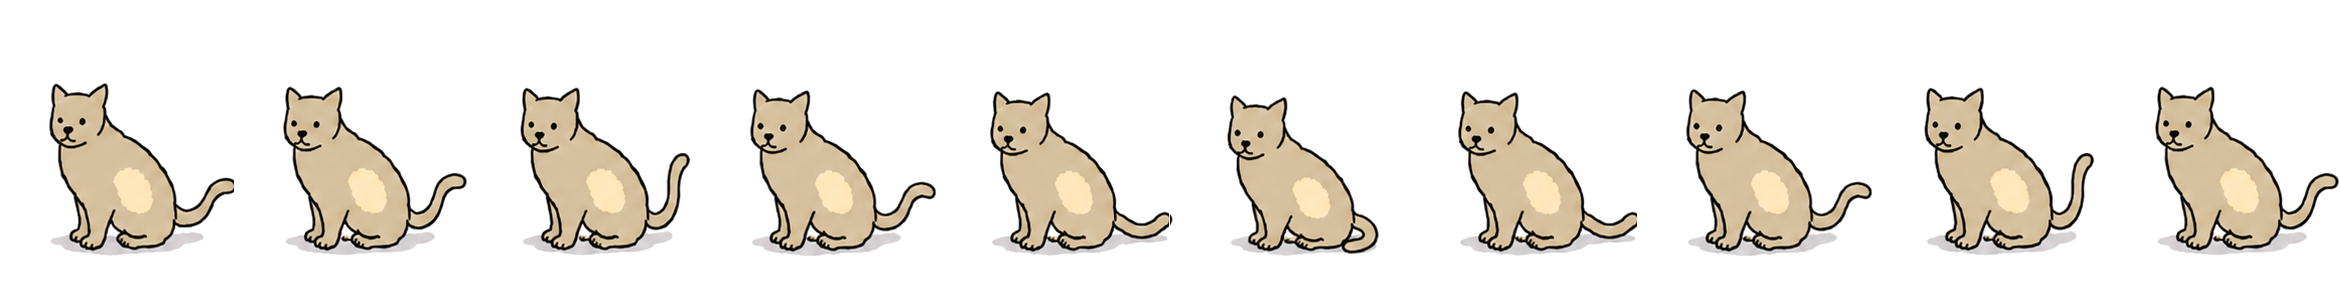
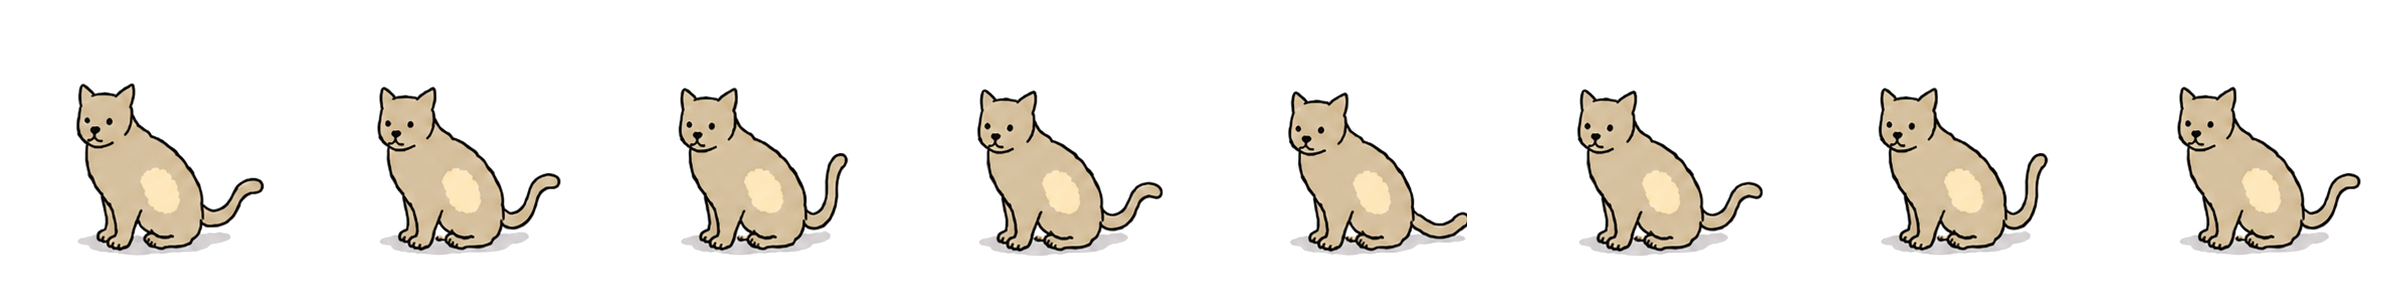
update cat actor dimensions and add host actor; enhance sprite extraction and styling

diff --git a/src/style.css b/src/style.css
@@ -59,6 +59,14 @@ body {
   bottom: 8%;
 }
 
+.actor-host {
+  z-index: 1;
+  width: 16%;
+  aspect-ratio: 300 / 370;
+  left: 27%;
+  bottom: 32%;
+}
+
 .actor-dancer {
   z-index: 2;
   width: 28%;
@@ -77,9 +85,9 @@ body {
 
 .actor-cat {
   z-index: 0;
-  width: 9%;
-  aspect-ratio: 234 / 281;
-  left: 60%;
+  width: 11.5%;
+  aspect-ratio: 300 / 281;
+  left: 58.8%;
   top: 30%;
 }
 

diff --git a/index.html b/index.html
@@ -21,6 +21,9 @@
       <div class="actor actor-floral" data-actor="floral" aria-label="A woman in a black floral dress gesturing" role="img">
         <img src="assets/characters/floral-strip.png" alt="" />
       </div>
+      <div class="actor actor-host" data-actor="host" aria-label="A host in a red vest waving a handheld fan" role="img">
+        <img src="assets/characters/host-strip.png" alt="" />
+      </div>
       <div class="actor actor-seated" data-actor="seated" aria-label="A seated woman in a pink shirt gesturing" role="img">
         <img src="assets/characters/seated-strip.png" alt="" />
       </div>

diff --git a/src/main.js b/src/main.js
@@ -3,10 +3,11 @@ import { gsap } from "gsap";
 const actors = [
   { name: "suit", frameCount: 14, framesPerSecond: 3 },
   { name: "floral", frameCount: 46, framesPerSecond: 5 },
+  { name: "host", frameCount: 28, framesPerSecond: 8 },
   { name: "seated", frameCount: 20, framesPerSecond: 3 },
   { name: "cyclist", frameCount: 20, framesPerSecond: 6 },
   { name: "dancer", frameCount: 20, framesPerSecond: 8 },
-  { name: "cat", frameCount: 10, framesPerSecond: 6 },
+  { name: "cat", frameCount: 8, framesPerSecond: 5 },
 ];
 
 const spriteLoops = [];

diff --git a/scripts/extract_host.py b/scripts/extract_host.py
@@ -1,0 +1,224 @@
+#!/usr/bin/env python3
+from pathlib import Path
+from collections import deque
+
+from PIL import Image
+
+
+SOURCE = Path("/Users/Manasi/Downloads/ChatGPT Image Jul 16, 2026, 08_10_11 PM.png")
+OUT_DIR = Path("public/assets/characters")
+NAME = "host"
+COLS = 5
+ROWS = 4
+FRAME_WIDTH = 300
+FRAME_HEIGHT = 370
+THRESHOLD = 244
+USE_FRAMES = list(range(15))
+SEQUENCE = USE_FRAMES + USE_FRAMES[-2:0:-1]
+
+
+def transparentize_paper(image):
+    image = image.convert("RGBA")
+    pixels = image.load()
+    visited = set()
+    queue = deque()
+
+    def is_background_candidate(x, y):
+        r, g, b, source_alpha = pixels[x, y]
+        return source_alpha == 0 or min(r, g, b) > THRESHOLD
+
+    for x in range(image.width):
+        queue.append((x, 0))
+        queue.append((x, image.height - 1))
+    for y in range(image.height):
+        queue.append((0, y))
+        queue.append((image.width - 1, y))
+
+    while queue:
+        x, y = queue.popleft()
+        if (x, y) in visited or not (0 <= x < image.width and 0 <= y < image.height):
+            continue
+        visited.add((x, y))
+        if not is_background_candidate(x, y):
+            continue
+        pixels[x, y] = (255, 255, 255, 0)
+        queue.append((x + 1, y))
+        queue.append((x - 1, y))
+        queue.append((x, y + 1))
+        queue.append((x, y - 1))
+
+    for y in range(image.height):
+        for x in range(image.width):
+            r, g, b, source_alpha = pixels[x, y]
+            if source_alpha == 0:
+                continue
+            pixels[x, y] = (r, g, b, source_alpha)
+    return image
+
+
+def alpha_bbox(image):
+    box = image.getchannel("A").getbbox()
+    if not box:
+        raise ValueError("Empty frame")
+    return box
+
+
+def remove_top_spill_components(image, frame_index):
+    image = image.convert("RGBA")
+    alpha = image.getchannel("A")
+    alpha_pixels = alpha.load()
+    pixels = image.load()
+    visited = set()
+
+    for y in range(image.height):
+        for x in range(image.width):
+            if (x, y) in visited or not alpha_pixels[x, y]:
+                continue
+
+            queue = deque([(x, y)])
+            visited.add((x, y))
+            component = []
+
+            while queue:
+                px, py = queue.popleft()
+                component.append((px, py))
+                for nx, ny in ((px + 1, py), (px - 1, py), (px, py + 1), (px, py - 1)):
+                    if (
+                        0 <= nx < image.width
+                        and 0 <= ny < image.height
+                        and (nx, ny) not in visited
+                        and alpha_pixels[nx, ny]
+                    ):
+                        visited.add((nx, ny))
+                        queue.append((nx, ny))
+
+            xs = [point[0] for point in component]
+            ys = [point[1] for point in component]
+            top = min(ys)
+            bottom = max(ys) + 1
+            area = len(component)
+            is_row_spill = frame_index >= COLS and top < 96 and bottom < 122 and area > 2
+
+            if is_row_spill:
+                for px, py in component:
+                    pixels[px, py] = (255, 255, 255, 0)
+
+    return image
+
+
+def remove_paper_specks(image):
+    image = image.convert("RGBA")
+    alpha = image.getchannel("A")
+    alpha_pixels = alpha.load()
+    pixels = image.load()
+    visited = set()
+
+    for y in range(image.height):
+        for x in range(image.width):
+            if (x, y) in visited or not alpha_pixels[x, y]:
+                continue
+
+            queue = deque([(x, y)])
+            visited.add((x, y))
+            component = []
+
+            while queue:
+                px, py = queue.popleft()
+                component.append((px, py))
+                for nx, ny in ((px + 1, py), (px - 1, py), (px, py + 1), (px, py - 1)):
+                    if (
+                        0 <= nx < image.width
+                        and 0 <= ny < image.height
+                        and (nx, ny) not in visited
+                        and alpha_pixels[nx, ny]
+                    ):
+                        visited.add((nx, ny))
+                        queue.append((nx, ny))
+
+            if len(component) > 12:
+                continue
+
+            is_pale_paper = all(min(pixels[px, py][:3]) > 240 for px, py in component)
+            if is_pale_paper:
+                for px, py in component:
+                    pixels[px, py] = (255, 255, 255, 0)
+
+    return image
+
+
+def lower_body_anchor_x(image):
+    pixels = image.load()
+    xs = []
+    for y in range(round(image.height * 0.58), image.height):
+        for x in range(image.width):
+            r, g, b, a = pixels[x, y]
+            is_outline = a > 80 and r < 95 and g < 80 and b < 80
+            is_red_pants = a > 100 and r > 95 and g < 80 and b < 70
+            if is_outline or is_red_pants:
+                xs.append(x)
+    if not xs:
+        return None
+    xs.sort()
+    return xs[len(xs) // 2]
+
+
+def composite_centered(canvas, crop):
+    x = (canvas.width - crop.width) // 2
+    y = (canvas.height - crop.height) // 2
+    source_left = max(0, -x)
+    source_top = max(0, -y)
+    source_right = min(crop.width, canvas.width - x)
+    source_bottom = min(crop.height, canvas.height - y)
+    if source_right <= source_left or source_bottom <= source_top:
+        return
+    canvas.alpha_composite(crop.crop((source_left, source_top, source_right, source_bottom)), (max(0, x), max(0, y)))
+
+
+def main():
+    if not SOURCE.exists():
+        raise SystemExit(f"Missing host spritesheet: {SOURCE}")
+
+    OUT_DIR.mkdir(parents=True, exist_ok=True)
+    sheet = Image.open(SOURCE).convert("RGBA")
+
+    frames = []
+    for row in range(ROWS):
+        for col in range(COLS):
+            left = round(col * sheet.width / COLS)
+            right = round((col + 1) * sheet.width / COLS)
+            top = round(row * sheet.height / ROWS)
+            bottom = round((row + 1) * sheet.height / ROWS)
+            crop = sheet.crop((left, top, right, bottom))
+            canvas = Image.new("RGBA", (FRAME_WIDTH, FRAME_HEIGHT), (255, 255, 255, 0))
+            composite_centered(canvas, crop)
+            frame = transparentize_paper(canvas)
+            frame = remove_top_spill_components(frame, row * COLS + col)
+            frame = remove_paper_specks(frame)
+            frames.append(frame)
+
+    usable = [frames[index] for index in USE_FRAMES]
+    boxes = [alpha_bbox(frame) for frame in usable]
+    anchors = [lower_body_anchor_x(frame) for frame in usable]
+    if any(anchor is None for anchor in anchors):
+        raise SystemExit("Could not find a lower-body anchor for at least one host frame.")
+
+    target_anchor_x = sorted(anchors)[len(anchors) // 2]
+    target_bottom = max(box[3] for box in boxes)
+    anchored = []
+
+    for index, frame in enumerate(usable):
+        box = boxes[index]
+        dx = round(target_anchor_x - anchors[index])
+        dy = target_bottom - box[3]
+        output = Image.new("RGBA", (FRAME_WIDTH, FRAME_HEIGHT), (255, 255, 255, 0))
+        output.alpha_composite(frame, (dx, dy))
+        anchored.append(output)
+
+    strip = Image.new("RGBA", (FRAME_WIDTH * len(SEQUENCE), FRAME_HEIGHT), (255, 255, 255, 0))
+    for strip_index, frame_index in enumerate(SEQUENCE):
+        strip.alpha_composite(anchored[frame_index], (strip_index * FRAME_WIDTH, 0))
+    strip.save(OUT_DIR / f"{NAME}-strip.png")
+
+
+if __name__ == "__main__":
+    main()

diff --git a/scripts/extract_cat.py b/scripts/extract_cat.py
@@ -9,11 +9,11 @@ OUT_DIR = Path("public/assets/characters")
 NAME = "cat"
 COLS = 6
 ROWS = 4
-FRAME_WIDTH = 234
+FRAME_WIDTH = 300
 FRAME_HEIGHT = 281
 THRESHOLD = 244
 EXPECTED_FRAMES = 24
-SEQUENCE = [0, 1, 2, 3, 4, 5, 4, 3, 2, 1]
+SEQUENCE = [0, 1, 2, 3, 4, 3, 2, 1]
 
 
 def transparentize_paper(image):